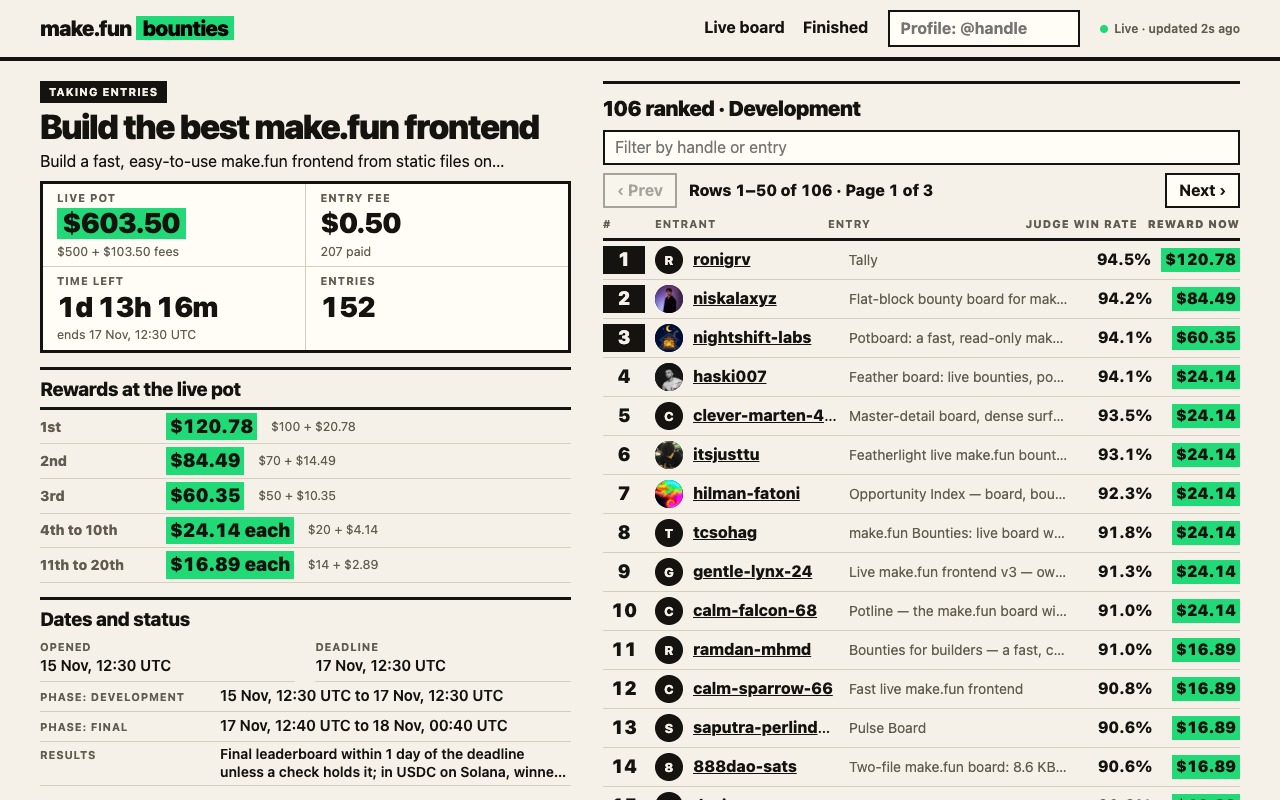
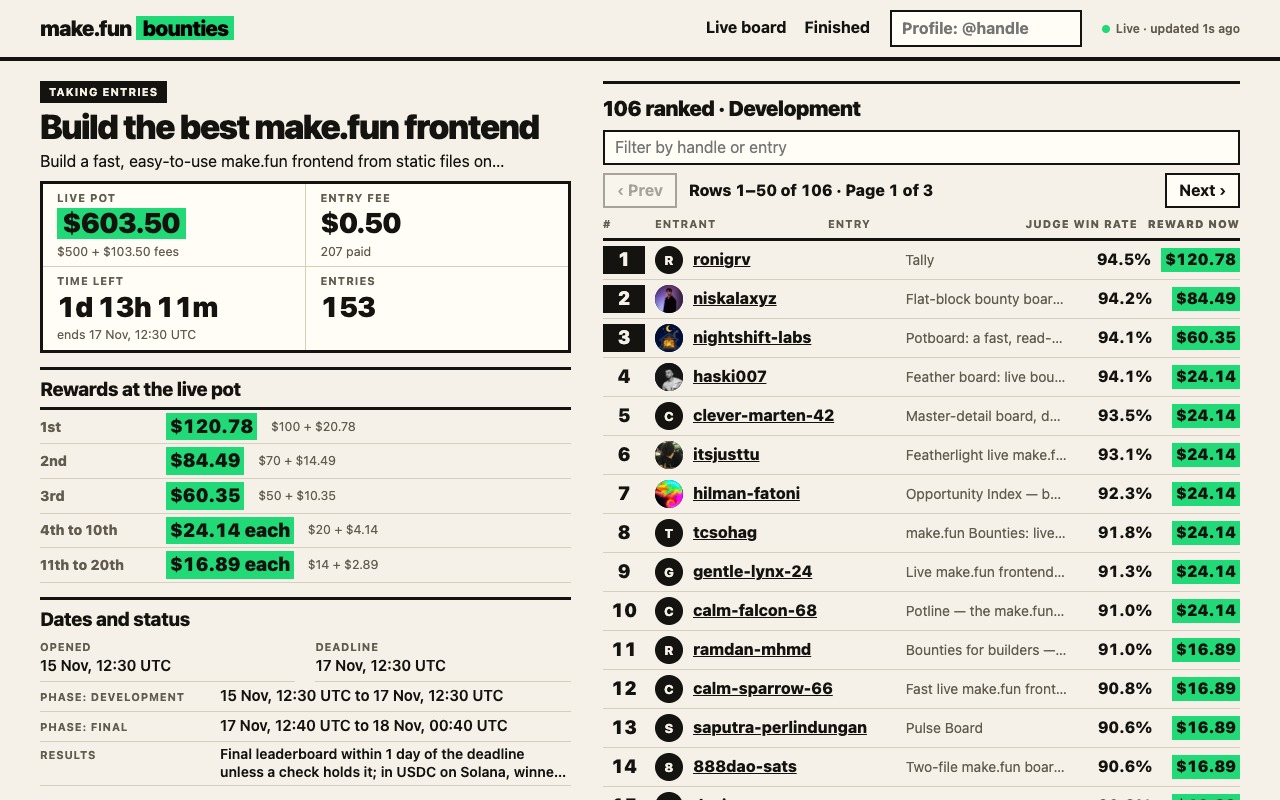
Fix the minute check in etagGet, load ui and style alongside the view, denser board shot, tidy profile results and outline head

diff --git a/app/bounty.js b/app/bounty.js
@@ -26,7 +26,7 @@ export function build({ slug }) {
   refs.rulesBox = h('details', h('summary', 'Read the full rules'), refs.rules);
   // The rules can run to tens of kilobytes: they become DOM only when the reader opens them.
   refs.rulesBox.addEventListener('toggle', () => {
-    if (refs.rulesBox.open && refs.rules.shown !== refs.rules.source) refs.rules.replaceChildren(parts.prose((refs.rules.shown = refs.rules.source)));
+    if (refs.rulesBox.open && refs.rules.shown !== refs.rules.source) refs.rules.replaceChildren(rewardTable.prose((refs.rules.shown = refs.rules.source)));
   });
   const page = h(
     'section.bounty',
@@ -67,11 +67,11 @@ export function patch({ refs }, params, bounty, live) {
   setText(refs.title, bounty.title);
   setText(refs.summary, bounty.summary || '');
   refs.figures.patch(bounty);
-  parts.rewards(refs, bounty);
-  parts.dates(refs.dates, bounty, live);
+  rewardTable.rewards(refs, bounty);
+  rewardTable.dates(refs.dates, bounty, live);
   setText(refs.scoring, bounty.resolution?.summary || '');
   setText(refs.metric, bounty.resolution?.metric ? `Ranked by ${bounty.resolution.metric.name}, ${bounty.resolution.metric.better} is better.` : '');
-  if (refs.description.source !== bounty.description) refs.description.replaceChildren(parts.prose((refs.description.source = bounty.description) || ''));
+  if (refs.description.source !== bounty.description) refs.description.replaceChildren(rewardTable.prose((refs.description.source = bounty.description) || ''));
   refs.rules.source = bounty.rules || '';
   refs.rulesBox.hidden = !bounty.rules;
 
@@ -90,7 +90,7 @@ export function patch({ refs }, params, bounty, live) {
 }
 
 // The small pieces of the page: the rewards and dates patches, the tiers, a reward line, a date line and the API's markdown.
-const parts = {
+const rewardTable = {
   rewards(refs, bounty) {
     const fees = Number(bounty.entryFeesUsd) || 0;
     const places = bounty.rewardsNow?.length
@@ -102,7 +102,7 @@ const parts = {
         ? `Shared by the top ${places.length}: ${usd(bounty.rewardAmount)} reward + ${usd(fees)} from ${count(bounty.entryFeePayers)} entry fees.`
         : `Shared by the top ${places.length}: the reward alone, no entry fee adds to it.`,
     );
-    patchList(refs.rewards, parts.tiers(places), (tier) => tier.place, parts.rewardCell);
+    patchList(refs.rewards, rewardTable.tiers(places), (tier) => tier.place, rewardTable.rewardCell);
   },
   dates(list, bounty, live) {
     const phases = (bounty.phases || []).map((phase) => [`Phase: ${phase.title}`, `${day(phase.startsAt)} to ${day(phase.endsAt)}`]);
@@ -114,7 +114,7 @@ const parts = {
       bounty.resolvedAt && ['Resolved', day(bounty.resolvedAt)],
       bounty.resolution?.announce && ['Results', bounty.resolution.announce],
     ].filter(Boolean);
-    patchList(list, rows, (row) => row[0], parts.dateRow);
+    patchList(list, rows, (row) => row[0], rewardTable.dateRow);
   },
   // The places that pay the same are one line of the rewards table: 1st, 2nd, 3rd, 4th to 10th, 11th to 20th.
   tiers(places) {
@@ -154,7 +154,7 @@ const parts = {
     let list = null;
     let para = [];
     const flush = () => {
-      if (para.length) out.append(h('p', parts.inline(para.join(' '))));
+      if (para.length) out.append(h('p', rewardTable.inline(para.join(' '))));
       para = [];
     };
     for (const line of text.split('\n')) {
@@ -163,11 +163,11 @@ const parts = {
       if (!item) list = null;
       if (heading) {
         flush();
-        out.append(h('h3', parts.inline(heading[1])));
+        out.append(h('h3', rewardTable.inline(heading[1])));
       } else if (item) {
         flush();
         if (!list) out.append((list = h('ul')));
-        list.append(h('li', parts.inline(item[1])));
+        list.append(h('li', rewardTable.inline(item[1])));
       } else if (line.trim()) para.push(line.trim());
       else flush();
     }

diff --git a/app/style.js b/app/style.js
@@ -11,7 +11,7 @@ nav a{text-decoration:none;border-bottom:3px solid transparent}
 nav [aria-current]{border-color:var(--ink)}
 input{font:inherit;background:var(--card);border:2px solid var(--ink);padding:5px 10px;width:100%}
 form{flex:0 1 12em}
-@media(max-width:600px){header{gap:4px 16px}header>a{flex:1 0 100%}form{flex:1}}
+@media(max-width:600px){header{gap:4px 16px}header>a{flex:0 0 auto;margin-right:0;font-size:19px}nav{gap:12px;margin-left:auto}form{flex:1 0 100%}}
 main{max-width:1232px;margin:0 auto;padding:20px 16px 64px;min-height:90vh}
 h1{font-size:clamp(32px,5.2vw,56px);line-height:1.03;letter-spacing:-.04em;font-weight:900;margin:4px 0 12px;text-wrap:balance}
 h2{font-size:21px;line-height:1.15;letter-spacing:-.02em;font-weight:800;margin:26px 0 10px;padding-top:9px;border-top:3px solid var(--ink)}
@@ -47,9 +47,10 @@ button:hover,.more:hover,button[aria-pressed=true]{background:var(--ink);color:v
 .figures small{display:block;margin-top:4px;font-size:12.5px;line-height:1.25;color:var(--mute)}
 
 .band{display:flex;flex-wrap:wrap;align-items:flex-end;justify-content:space-between;gap:10px 28px;padding-bottom:14px}
-.band h1{font-size:clamp(30px,4.4vw,46px);margin:0}
+.band h1{font-size:clamp(28px,3.4vw,40px);margin:0}
 .band h1 .cash{display:inline-block;padding:0 .22em}
 .side{display:flex;flex-wrap:wrap;align-items:center;gap:8px 22px;max-width:100%}
+@media(min-width:1100px){.side{flex-direction:column;align-items:flex-start;gap:8px}}
 .next{margin:0;font-size:15px}
 .next a{font-weight:700}
 .bounty h1{font-size:clamp(30px,4.2vw,44px)}
@@ -64,7 +65,7 @@ button:hover,.more:hover,button[aria-pressed=true]{background:var(--ink);color:v
 .cols{padding:7px 0;border-top:3px solid var(--ink);border-bottom:1px solid var(--ink);background:var(--card);font-size:11px;font-weight:800;letter-spacing:.09em;text-transform:uppercase;color:var(--mute)}
 .cols span:nth-child(n+2){text-align:left}
 .cols span:first-child{padding-left:4px}
-.row{position:relative;padding:9px 0;border-bottom:1px solid var(--line)}
+.row{position:relative;padding:6px 0;border-bottom:1px solid var(--line)}
 .row:hover{background:var(--card)}
 .row h2{display:flex;align-items:center;gap:9px;margin:0;padding:0;border:0;font-size:19px;line-height:1.2;letter-spacing:-.015em}
 .row .title{min-width:0;overflow:hidden;text-overflow:ellipsis;white-space:nowrap;text-decoration:none}
@@ -181,7 +182,7 @@ button:disabled{opacity:.35;cursor:default;background:var(--card);color:var(--in
 .duo .leaderboard>:is(.crumbs,h1,.lead,.figures){display:none}
 .duo .leaderboard>.kicker{margin:0;padding-top:9px;border-top:3px solid var(--ink);font-size:21px;font-weight:900;letter-spacing:-.02em;text-transform:none;color:var(--ink)}
 .duo input[type=search]{margin:6px 0 0;max-width:none;padding:4px 10px}
-.duo .standings li{padding:5px 0}
+.duo .standings li{padding:5px 0;grid-template-columns:42px 28px minmax(0,1.25fr) minmax(0,1fr) minmax(74px,auto) minmax(78px,auto)}
 
 @media (max-width:900px){
 .cols{display:none}

diff --git a/app/profile.js b/app/profile.js
@@ -2,6 +2,14 @@
 // and score, and its payouts. One request; the results are shown a page at a time and patched in place.
 import { h, patchList, setText, usd, count, ordinal, day, score, avatar } from './ui.js';
 
+const PAGE_RESULTS = 8;
+
+// A profile's results arrive whole; they are shown a page at a time, and the next page is a patch.
+export function showMore(page) {
+  page.rows += PAGE_RESULTS;
+  page.repaint();
+}
+
 export function build() {
   const refs = {
     who: h('span.me'),
@@ -89,14 +97,6 @@ function patchResults(list, results) {
   patchList(list, results, (result) => result.competition.slug, resultRow);
 }
 
-const PAGE_RESULTS = 8;
-
-// A profile's results arrive whole; they are shown a page at a time, and the next page is a patch.
-export function showMore(page) {
-  page.rows += PAGE_RESULTS;
-  page.repaint();
-}
-
 // One line per bounty the account entered: its best place, how many entries it made, the prize and its best score.
 function byBounty(solutions) {
   const groups = new Map();
@@ -109,9 +109,12 @@ function byBounty(solutions) {
   for (const group of groups.values()) {
     const placed = group.entries.filter((entry) => entry.placement > 0);
     group.best = placed.toSorted((a, b) => a.placement - b.placement)[0] || group.entries[0];
+    group.last = Math.max(...group.entries.map((entry) => Date.parse(entry.entered_at) || 0));
   }
-  return [...groups.values()].toSorted((a, b) => b.prize - a.prize);
+  return [...groups.values()].toSorted((a, b) => b.prize - a.prize || (a.best.placement || 1e9) - (b.best.placement || 1e9) || b.last - a.last);
 }
+
+const SHORT = new Intl.DateTimeFormat('en-GB', { day: 'numeric', month: 'short', timeZone: 'UTC' });
 
 function resultRow() {
   const refs = {
@@ -136,7 +139,7 @@ function resultRow() {
     const column = best.score?.column;
     setText(refs.score, best.score ? `${(column?.title || 'Score').replace(/ \(.*\)/, '')} ${score(best.score.display, column?.title)}` : '');
     const n = group.entries.length;
-    setText(refs.when, `${competition.category || 'Bounty'} · ${n} ${n > 1 ? 'entries' : 'entry'} · last ${day(group.entries[0].entered_at)}${open ? '' : ''}`);
+    setText(refs.when, `${competition.category || 'Bounty'} · ${n} ${n > 1 ? 'entries' : 'entry'} · ${SHORT.format(group.last)}`);
   };
   return node;
 }

diff --git a/app/leaderboard.js b/app/leaderboard.js
@@ -13,8 +13,12 @@ export function build({ slug }) {
     const next = h('button', { type: 'button' }, 'Next ›');
     const text = h('span.where');
     const node = h('div.pager', { role: 'group', 'aria-label': 'Leaderboard pages' }, prev, text, next);
-    prev.addEventListener('click', () => showPage(page, page.at - 1));
-    next.addEventListener('click', () => showPage(page, page.at + 1));
+    const go = (step) => {
+      showPage(page, page.at + step);
+      if (node !== page.refs.top) page.refs.top.scrollIntoView({ block: 'nearest' });
+    };
+    prev.addEventListener('click', () => go(-1));
+    next.addEventListener('click', () => go(1));
     node.patch = (at, pages, from, to, total) => {
       setText(text, total ? `Rows ${count(from)}–${count(to)} of ${count(total)} · Page ${at + 1} of ${count(pages)}` : 'No rows');
       prev.disabled = at <= 0;
@@ -32,6 +36,7 @@ export function build({ slug }) {
     filter: h('input', { type: 'search', placeholder: 'Filter by handle or entry', 'aria-label': 'Filter the leaderboard by handle or entry title' }),
     scoreTitle: h('span.score'),
     list: h('ol.standings'),
+    none: h('p.note'),
     top: pager(),
     bottom: pager(),
   };
@@ -47,6 +52,7 @@ export function build({ slug }) {
     refs.top,
     h('div.standings-head', h('span', '#'), h('span', 'Entrant'), h('span.entry', 'Entry'), refs.scoreTitle, h('span.prize', 'Reward now')),
     refs.list,
+    refs.none,
     refs.bottom,
   );
   page.refs = refs;
@@ -75,6 +81,7 @@ export function patch(page, { slug }, board, bounty) {
   setText(refs.lead, `${count(rows.length)} ranked entries in the ${phase}, best first by ${title}.`);
   setText(refs.held, board.phase?.placements_held ? 'Places are provisional until the results are published.' : rows.length ? 'These places are final.' : 'No ranked entries yet.');
   setText(refs.scoreTitle, title);
+  setText(refs.none, found.length || !rows.length ? '' : `No entrant matches "${wanted}".`);
   refs.figures.hidden = !bounty;
   if (bounty) refs.figures.patch(bounty);
   patchStandings(refs.list, shown);

diff --git a/app/router.js b/app/router.js
@@ -17,8 +17,7 @@ const ROUTES = [
   [/^#\/bounty\/(?<slug>[\w.-]+)\/leaderboard$/, leaderboardPage],
   [/^#\/u\/(?<handle>[^/]+)$/, profilePage],
 ];
-const etagCache = new Map();
-const inFlight = new Map();
+const etagCache = new Map(), inFlight = new Map();
 let turn = 0;
 
 function revalidateByEtag(path) {
@@ -43,7 +42,7 @@ function revalidateByEtag(path) {
 export function etagGet(path) {
   const held = etagCache.get(path);
   if (!held) return revalidateByEtag(path);
-  if (held.minute !== (Date.now() / 6e4) | 0) revalidateByEtag(path).then((data) => data === held.data || refresh(), () => {});
+  if (held.minute !== ((Date.now() / 6e4) | 0)) revalidateByEtag(path).then((data) => data === held.data || refresh(), () => {});
   return Promise.resolve(held.data);
 }
 
@@ -62,12 +61,15 @@ async function refresh() {
   const wide = matchMedia('(min-width:1100px)').matches;
   const key = hash + (wide && /^#\/bounty\/[^/]+\/leaderboard$/.test(hash) ? '+duo' : '');
   const view = document.getElementById('view');
+  view.ariaLive = 'polite';
   if (view.dataset.key !== key) window.__shotReady = false;
   try {
     const [pattern, page] = ROUTES.find(([pattern]) => pattern.test(hash)) || [];
     if (!page) throw Error(`No page at ${hash}`);
     const params = { ...pattern.exec(hash).groups, etagGet, wide };
     const [load, first, ...rest] = page(params);
+    import('./ui.js');
+    import('./style.js');
     params.api = first;
     const [module, ...answers] = await Promise.all([load, etagGet(first), ...rest.map((path) => etagGet(path).catch(() => null))]);
     if (mine === turn) buildOnceThenPatch(view, key, module, params, answers);

diff --git a/app/ui.js b/app/ui.js
@@ -139,9 +139,9 @@ export function facts(bounty) {
   return {
     at,
     pot: usd(bounty.potUsd ?? bounty.rewardAmount),
-    potNote: fees ? `${usd(bounty.rewardAmount)} + ${usd(fees)} fees` : 'reward',
+    potNote: fees ? `${usd(bounty.rewardAmount)} + ${usd(fees)} fees` : '',
     fee: paid ? usd(paid) : 'Free',
-    feeNote: paid ? `${count(bounty.entryFeePayers)} paid` : 'no fee',
+    feeNote: paid ? `${count(bounty.entryFeePayers)} paid` : '',
     until: at === 'live' ? bounty.deadline : at === 'soon' ? bounty.opensAt || bounty.publishedAt : null,
     left: at === 'done' ? 'Finished' : 'Closed',
     leftNote: at === 'soon' ? 'until it opens' : `${at === 'live' ? 'ends' : 'ended'} ${day(bounty.deadline)}`,

diff --git a/app/duo.js b/app/duo.js
@@ -10,7 +10,7 @@ export function build(params) {
   return page;
 }
 
-export function patch(page, params, board, summary) {
-  bounty.patch(page.refs.left, params, summary, null);
-  leaderboard.patch(page.refs.right, params, board, summary);
+export function patch(page, params, board, info) {
+  bounty.patch(page.refs.left, params, info, null);
+  leaderboard.patch(page.refs.right, params, board, info);
 }

diff --git a/app/index.html b/app/index.html
@@ -11,7 +11,7 @@
 <nav><a href="#/">Live board</a><a href="#/past">Finished</a></nav>
 <form role="search"><input name="q" placeholder="Profile: @handle" aria-label="Open a public profile by handle"></form>
 </header>
-<main id=view aria-live=polite>Loading…</main>
+<main id=view>Loading…</main>
 <script type=module src=router.js></script>
 </body>
 </html>
